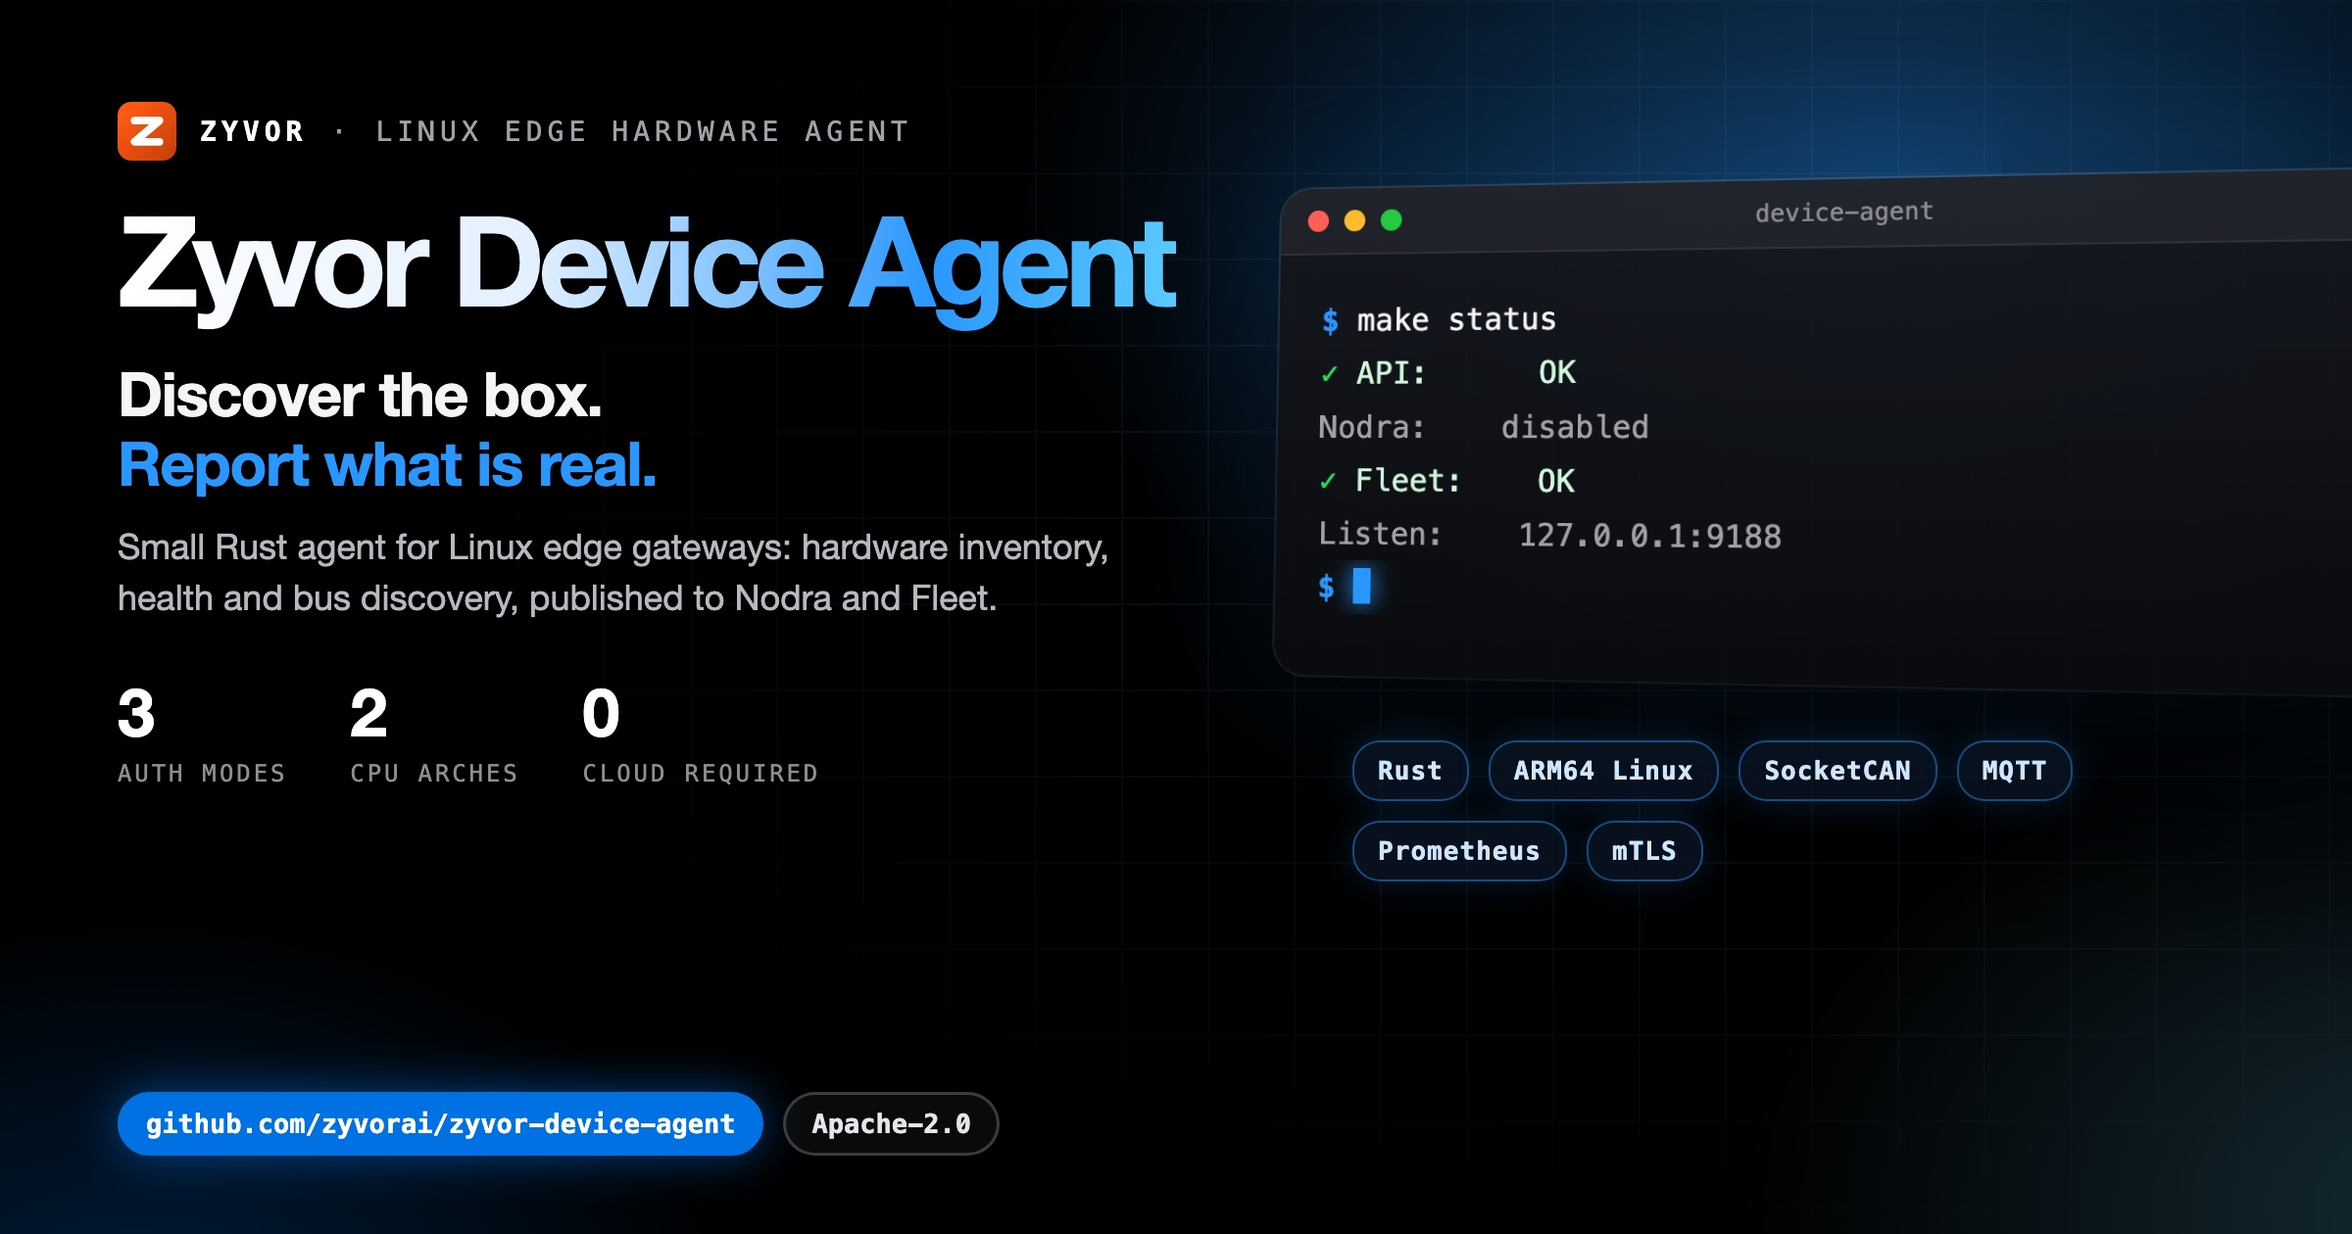
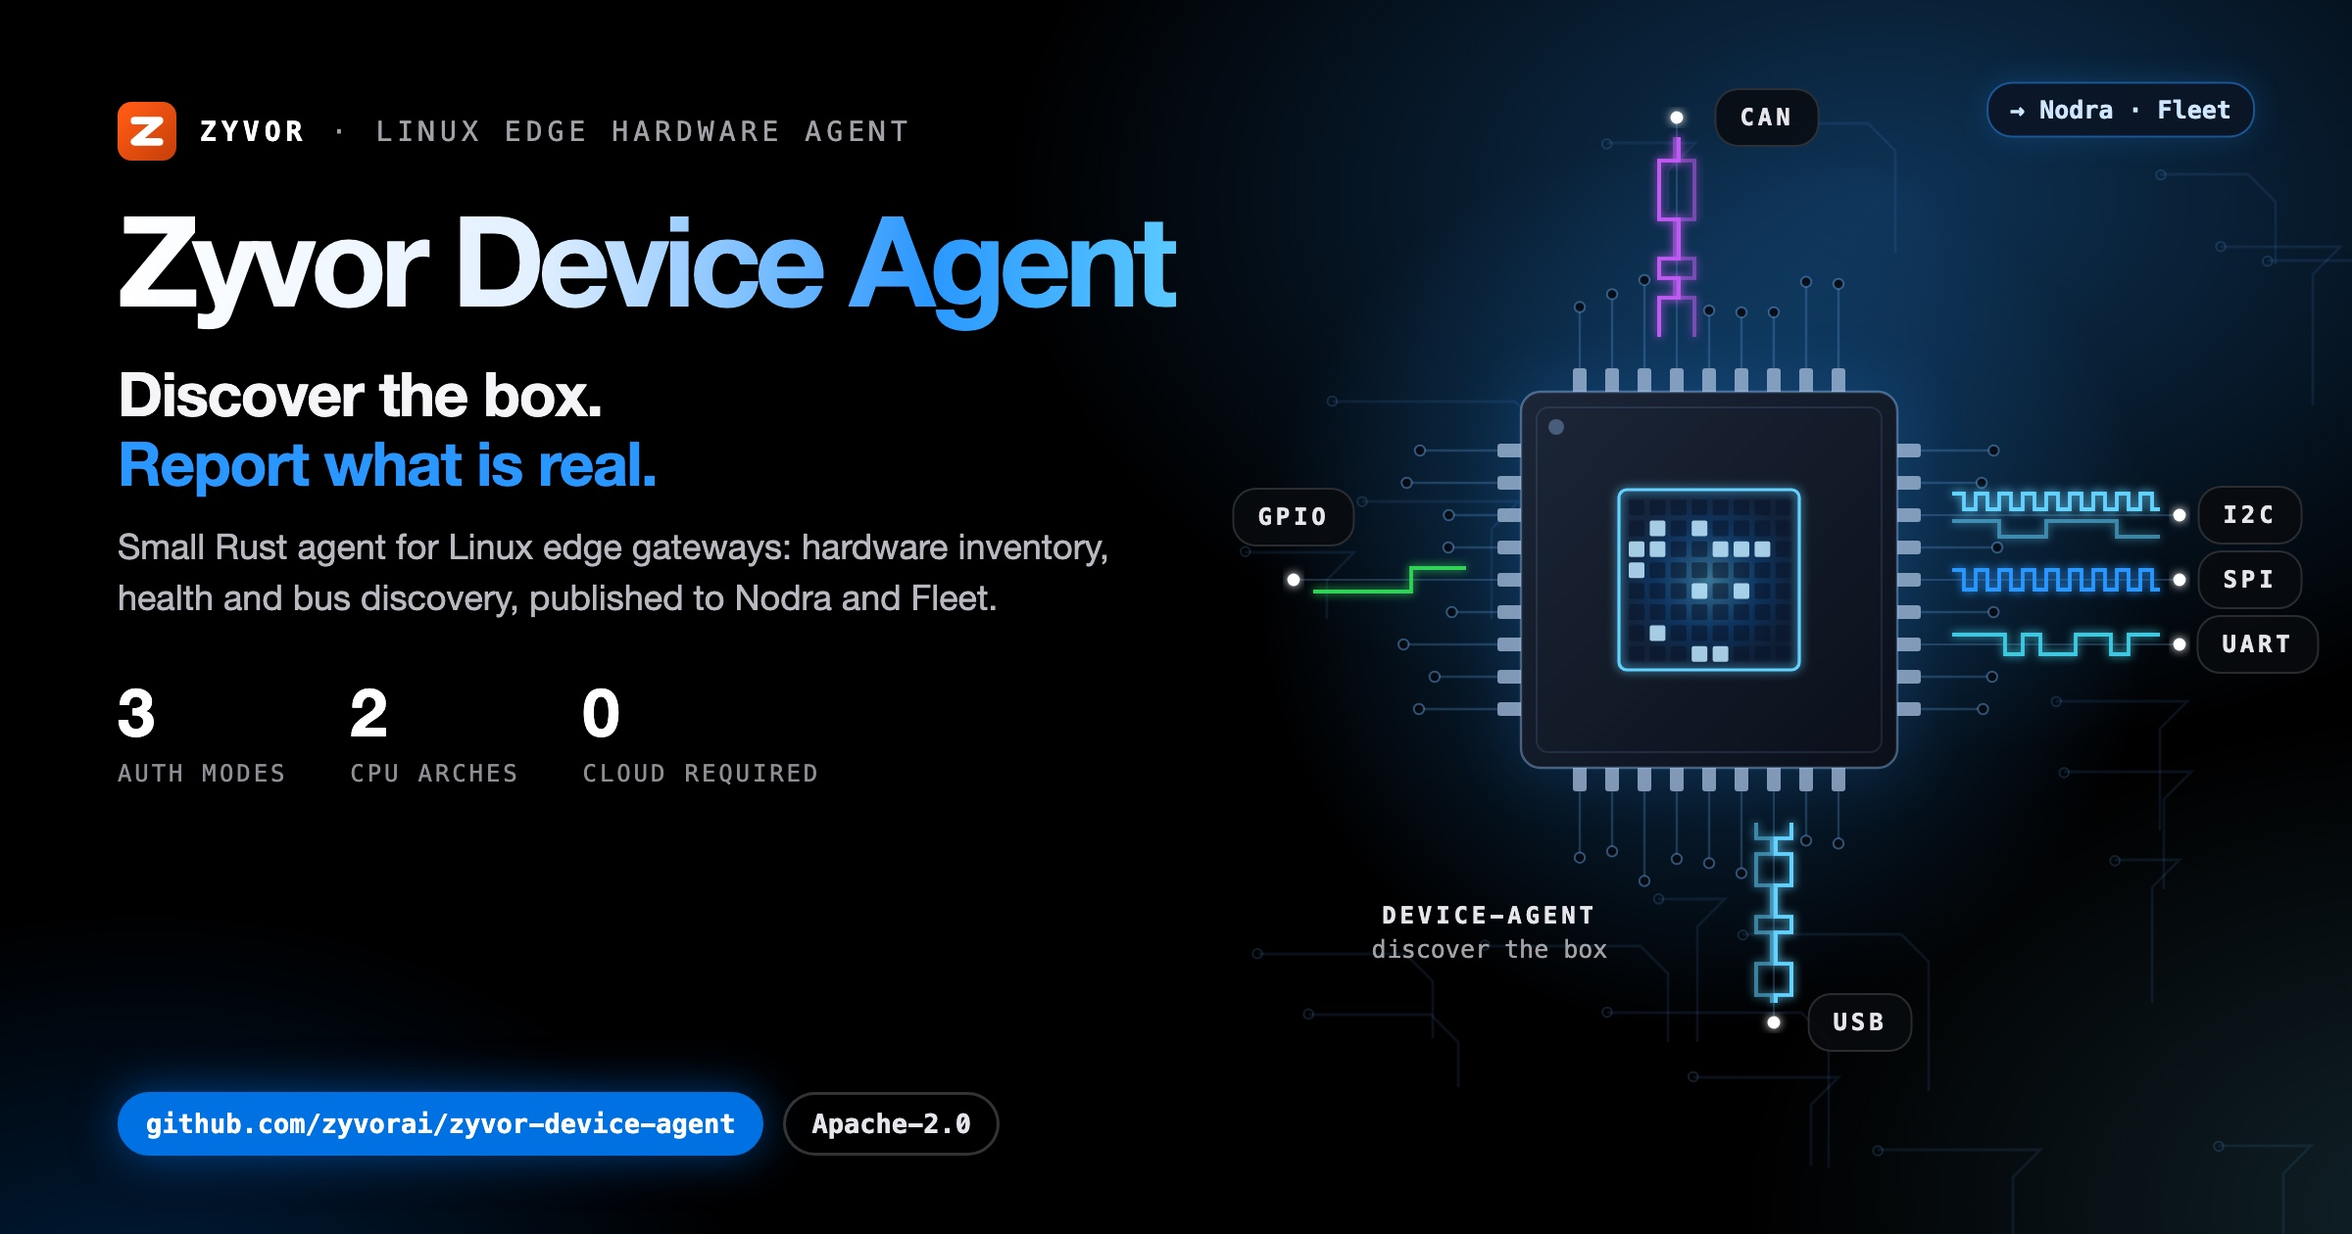
docs(social): unique illustrated hero card
Replace the shared terminal-window art with a motif drawn for this project;
same verified copy and stats on the left.

Changed region(s): [[0.5312, 0.0619, 1.0, 0.8357]]

diff --git a/docs/social/device-agent-hero-dark.html b/docs/social/device-agent-hero-dark.html
@@ -8,58 +8,47 @@
   Build: ./docs/social/build-hero-dark.sh  ->  device-agent-hero-dark.jpg (2400x1260)
 -->
 <style>
-  :root { --blue:#0071e3; --signal:#2997ff; --cyan:#64d2ff; --green:#30d158; --amber:#ff9f0a;
+  :root { --blue:#0071e3; --signal:#2997ff; --cyan:#64d2ff; --green:#30d158; --amber:#ff9f0a; --red:#ff453a; --violet:#bf5af2;
     --sans:'SF Pro Display','Helvetica Neue',Helvetica,Arial,sans-serif; --mono:'SF Mono',Menlo,Consolas,monospace; }
   * { box-sizing:border-box; }
   html,body { margin:0; padding:0; }
   body { width:1200px; height:630px; overflow:hidden; color:#f5f5f7; font-family:var(--sans); position:relative; background:#000; }
   .aurora { position:absolute; inset:0;
-    background:radial-gradient(720px 460px at 80% 16%, rgba(41,151,255,.40), transparent 62%),
-               radial-gradient(600px 420px at 104% 98%, rgba(100,210,255,.20), transparent 60%),
+    background:radial-gradient(720px 460px at 80% 16%, rgba(41,151,255,.34), transparent 62%),
+               radial-gradient(600px 420px at 104% 98%, rgba(100,210,255,.16), transparent 60%),
                radial-gradient(520px 380px at 6% 110%, rgba(0,113,227,.28), transparent 60%); }
-  .grid { position:absolute; inset:0; opacity:.09;
-    background-image:linear-gradient(rgba(120,180,255,.9) 1px,transparent 1px),linear-gradient(90deg,rgba(120,180,255,.9) 1px,transparent 1px);
-    background-size:44px 44px; -webkit-mask-image:radial-gradient(900px 520px at 72% 42%, #000 18%, transparent 75%); }
-  .left { position:absolute; left:60px; top:52px; width:560px; z-index:3; }
+  .copy { position:absolute; left:60px; top:52px; width:560px; z-index:3; }
   .brand { display:flex; align-items:center; gap:12px; font-family:var(--mono); font-size:14px; letter-spacing:.18em; text-transform:uppercase; color:#a1a1a6; }
   .brand b { color:#fff; }
   .word { margin:20px 0 0; font-size:64px; line-height:.95; font-weight:800; letter-spacing:-.05em; white-space:nowrap;
     background:linear-gradient(92deg,#fff 0%,#e3f0ff 38%,var(--signal) 74%,var(--cyan) 100%); -webkit-background-clip:text; background-clip:text; color:transparent; padding-bottom:6px; }
   .tag { margin:14px 0 0; font-size:31px; line-height:1.15; font-weight:700; letter-spacing:-.02em; }
   .tag em { font-style:normal; color:var(--signal); }
-  .lede { margin:12px 0 0; font-size:18px; line-height:1.45; color:#b8b8bf; width:520px; }
+  .lede { margin:12px 0 0; font-size:18px; line-height:1.45; color:#b8b8bf; width:520px; text-shadow:0 1px 12px #000; }
   .stats { margin-top:24px; display:flex; gap:32px; }
   .stat b { display:block; font-size:34px; font-weight:800; letter-spacing:-.03em; color:#fff; }
   .stat span { font-family:var(--mono); font-size:12px; letter-spacing:.12em; text-transform:uppercase; color:#8e8e93; }
   .pill { position:absolute; left:60px; bottom:40px; display:flex; gap:10px; z-index:3; }
-  .pill span { font-family:var(--mono); font-size:13.5px; font-weight:700; padding:7px 13px; border-radius:18px; border:1.5px solid rgba(255,255,255,.2); color:#e5e5ea; background:rgba(255,255,255,.04); }
+  .pill span { font-family:var(--mono); font-size:13.5px; font-weight:700; padding:7px 13px; border-radius:18px; border:1.5px solid rgba(255,255,255,.2); color:#e5e5ea; background:rgba(0,0,0,.6); }
   .pill span.b { background:var(--blue); border-color:var(--blue); color:#fff; box-shadow:0 0 24px rgba(0,113,227,.55); }
-
-  .right { position:absolute; left:652px; top:96px; width:560px; z-index:2; }
-  .win { position:relative; width:560px; border-radius:16px; overflow:hidden; z-index:2;
-    background:linear-gradient(180deg, rgba(22,24,30,.94), rgba(10,11,14,.96));
-    box-shadow:0 50px 100px rgba(0,0,0,.75), 0 0 0 1px rgba(255,255,255,.14), 0 0 90px rgba(41,151,255,.22);
-    transform:perspective(1600px) rotateY(-14deg) rotateX(4deg); transform-origin:left center; }
-  .bar { height:34px; display:flex; align-items:center; gap:8px; padding:0 14px; background:rgba(255,255,255,.05); border-bottom:1px solid rgba(255,255,255,.07); }
-  .bar i { width:11px; height:11px; border-radius:50%; background:#ff5f57; } .bar i:nth-child(2){background:#febc2e} .bar i:nth-child(3){background:#28c840}
-  .bar em { margin-left:auto; margin-right:auto; font-style:normal; font-family:var(--mono); font-size:12px; color:#8e8e93; transform:translateX(-24px); }
-  .term { min-height:214px; padding:20px 22px 24px; font-family:var(--mono); font-size:15.5px; line-height:1.75; }
-  .l { white-space:pre; overflow:hidden; text-overflow:ellipsis; color:#f5f5f7; }
-  .l .p { color:var(--signal); font-weight:700; }
-  .l.out { color:#a1a1a6; }
-  .l.cm { color:#6e6e73; }
-  .l.ok { color:#d1f7dc; } .l.ok span { color:var(--green); font-weight:700; }
-  .l.warn { color:#ffe1b0; } .l.warn span { color:var(--amber); font-weight:700; }
-  .cur { display:inline-block; width:9px; height:18px; background:var(--signal); vertical-align:-3px; box-shadow:0 0 12px var(--signal); }
-  .chips { margin:34px 0 0 38px; width:480px; display:flex; flex-wrap:wrap; gap:10px; position:relative; z-index:3; }
-  .chips span { font-family:var(--mono); font-size:13px; font-weight:700; letter-spacing:.04em; padding:7px 12px; border-radius:14px;
-    color:#cfe6ff; background:rgba(10,20,35,.82); border:1px solid rgba(41,151,255,.45); box-shadow:0 0 18px rgba(41,151,255,.18); }
+  .art { position:absolute; left:520px; top:0; width:680px; height:630px; z-index:2; }
+  .art svg { display:block; }
+  #labels { position:absolute; inset:0; z-index:4; pointer-events:none; }
+  .lbl { position:absolute; font-family:var(--mono); font-size:12.5px; color:#a1a1a6; text-align:center; transform:translate(-50%,-50%); white-space:nowrap; }
+  .lbl b { display:block; font-size:12px; letter-spacing:.16em; text-transform:uppercase; color:#e5e5ea; }
+  .lbl span { display:block; margin-top:3px; }
+  .lbl.box { padding:7px 12px; border-radius:12px; background:rgba(8,10,14,.85); border:1px solid rgba(255,255,255,.14); }
+  .lbl.chip { padding:6px 11px; border-radius:13px; font-size:12.5px; font-weight:700; color:#cfe6ff; background:rgba(10,20,35,.85); border:1px solid rgba(41,151,255,.5); box-shadow:0 0 16px rgba(41,151,255,.2); }
+  .lbl.left { transform:translate(0,-50%); text-align:left; }
+  .lbl.right { transform:translate(-100%,-50%); text-align:right; }
+  .ok { color:var(--green) !important; } .warn { color:var(--amber) !important; } .bad { color:var(--red) !important; } .sig { color:var(--signal) !important; } .cy { color:var(--cyan) !important; } .vi { color:var(--violet) !important; }
 </style>
 </head>
 <body>
 <div class="aurora"></div>
-<div class="grid"></div>
-<div class="left">
+<div class="art"><svg id="art" width="680" height="630" viewBox="0 0 680 630" xmlns="http://www.w3.org/2000/svg"></svg></div>
+<div id="labels"></div>
+<div class="copy">
   <div class="brand"><svg viewBox="0 0 64 64" width="30" height="30" aria-hidden="true"><defs><linearGradient id="zb" x1="8" y1="8" x2="56" y2="56" gradientUnits="userSpaceOnUse"><stop offset="0" stop-color="#ff5a15"/><stop offset="1" stop-color="#cc420a"/></linearGradient></defs><rect width="64" height="64" rx="15" fill="url(#zb)"/><path d="M18.5,20.5 45.5,20.5 18.5,43.5 45.5,43.5" fill="none" stroke="#fff" stroke-width="8.3" stroke-linecap="round" stroke-linejoin="round"/></svg><b>Zyvor</b><span>&middot;</span><span>Linux edge hardware agent</span></div>
   <div class="word">Zyvor Device Agent</div>
   <div class="tag">Discover the box.<br><em>Report what is real.</em></div>
@@ -67,8 +56,122 @@
   <div class="stats"><div class="stat"><b>3</b><span>auth modes</span></div><div class="stat"><b>2</b><span>CPU arches</span></div><div class="stat"><b>0</b><span>cloud required</span></div></div>
 </div>
 <div class="pill"><span class="b">github.com/zyvorai/zyvor-device-agent</span><span>Apache-2.0</span></div>
-<div class="right"><div class="win"><div class="bar"><i></i><i></i><i></i><em>device-agent</em></div>
-<div class="term"><div class="l"><span class="p">$</span> make status</div><div class="l ok"><span>&#10003;</span> API:      OK</div><div class="l out">Nodra:    disabled</div><div class="l ok"><span>&#10003;</span> Fleet:    OK</div><div class="l out">Listen:    127.0.0.1:9188</div><div class="l"><span class="p">$</span> <i class="cur"></i></div></div></div>
-<div class="chips"><span>Rust</span><span>ARM64 Linux</span><span>SocketCAN</span><span>MQTT</span><span>Prometheus</span><span>mTLS</span></div></div>
+<script>
+var Z = (function () {
+  var NS = 'http://www.w3.org/2000/svg', svg = document.getElementById('art'), labels = document.getElementById('labels');
+  var seed = 20261004;
+  function rnd() { seed = (seed * 1103515245 + 12345) % 2147483648; return seed / 2147483648; }
+  function el(tag, a, parent) { var n = document.createElementNS(NS, tag); for (var k in a) n.setAttribute(k, a[k]); (parent || svg).appendChild(n); return n; }
+  function g(attrs) { return el('g', attrs || {}); }
+  function label(x, y, inner, cls, style) { var d = document.createElement('div'); d.className = 'lbl ' + (cls || ''); d.style.left = (520 + x) + 'px'; d.style.top = y + 'px'; if (style) d.setAttribute('style', d.getAttribute('style') + ';' + style); d.innerHTML = inner; labels.appendChild(d); return d; }
+  return { NS: NS, svg: svg, W: 680, H: 630, rnd: rnd, el: el, g: g, label: label,
+    reseed: function (s) { seed = s; },
+    c: { blue: '#0071e3', signal: '#2997ff', cyan: '#64d2ff', green: '#30d158', amber: '#ff9f0a', red: '#ff453a', violet: '#bf5af2', teal: '#40c8e0', indigo: '#5e5ce6', pink: '#ff375f', white: '#f5f5f7', grey: '#8e8e93' } };
+})();
+(function () {
+// Zyvor Device Agent: SoC package pinout. Bus traces leave the pins as live square waves
+// (I2C, SPI, UART, CAN, USB, GPIO), each drawn with its own signalling shape.
+var C = Z.c, cx = 352, cy = 296, H = 80;
+var d = Z.el('defs', {});
+d.innerHTML = '<filter id="dagl" x="-30%" y="-80%" width="160%" height="260%"><feGaussianBlur stdDeviation="2.4" result="b"/><feMerge><feMergeNode in="b"/><feMergeNode in="SourceGraphic"/></feMerge></filter>' +
+  '<filter id="dasf" x="-80%" y="-80%" width="260%" height="260%"><feGaussianBlur stdDeviation="16"/></filter>' +
+  '<linearGradient id="dapkg" x1="0" y1="0" x2="1" y2="1"><stop offset="0" stop-color="#1c2638"/><stop offset="1" stop-color="#0a0f19"/></linearGradient>' +
+  '<radialGradient id="dadie"><stop offset="0" stop-color="#64d2ff" stop-opacity=".9"/><stop offset=".6" stop-color="#0071e3" stop-opacity=".5"/><stop offset="1" stop-color="#0071e3" stop-opacity=".15"/></radialGradient>' +
+  '<radialGradient id="dahalo"><stop offset="0" stop-color="#2997ff" stop-opacity=".35"/><stop offset="1" stop-color="#2997ff" stop-opacity="0"/></radialGradient>';
+
+Z.el('circle', { cx: cx, cy: cy, r: 230, fill: 'url(#dahalo)' });
+// faint PCB traces texture
+for (var k = 0; k < 26; k++) {
+  var x = 110 + Z.rnd() * 540, y = 40 + Z.rnd() * 550, L1 = 30 + Z.rnd() * 70, L2 = 20 + Z.rnd() * 50, s = Z.rnd() < .5 ? 1 : -1;
+  if (Math.abs(x - cx) < 140 && Math.abs(y - cy) < 140) continue;
+  Z.el('path', { d: 'M' + x.toFixed(0) + ',' + y.toFixed(0) + ' h' + L1.toFixed(0) + ' l' + (s * 14) + ',' + 14 + ' v' + L2.toFixed(0), fill: 'none', stroke: 'rgba(100,170,255,.10)', 'stroke-width': 1.4 });
+  Z.el('circle', { cx: x, cy: y, r: 2.4, fill: 'none', stroke: 'rgba(100,170,255,.18)' });
+}
+
+// square-wave along a local x axis; returns path d
+function waveD(len, bits, amp, bw, off) {
+  var lvl = bits.charAt(0) === '1', dd = 'M0,' + (lvl ? -amp : amp) + off;
+  var x = 0, out = 'M0,' + ((lvl ? -amp : amp) + off);
+  for (var i = 0; i * bw < len; i++) {
+    var b = bits.charAt(i % bits.length) === '1';
+    if (b !== lvl) { out += ' V' + ((b ? -amp : amp) + off); lvl = b; }
+    x = Math.min(len, (i + 1) * bw); out += ' H' + x;
+  }
+  return out;
+}
+function bus(x0, y0, deg, len, kind, col) {
+  var g = Z.g({ transform: 'translate(' + x0 + ',' + y0 + ') rotate(' + deg + ')' });
+  Z.el('line', { x1: 0, y1: 0, x2: len, y2: 0, stroke: 'rgba(120,185,255,.22)', 'stroke-width': 1 }, g);
+  var start = 16, wl = len - start - 10, w = Z.g({ transform: 'translate(' + start + ',0)' });
+  g.appendChild(w);
+  var lines = [];
+  if (kind === 'i2c') { lines = [['10101010101010101010', 4, 6, -7], ['11001110001101100011', 4, 12, 7]]; }
+  if (kind === 'spi') { lines = [['10101010101010101010', 5, 6, 0]]; }
+  if (kind === 'uart') { lines = [['1110100110111011010011', 5, 9, 0]]; }
+  if (kind === 'can') { lines = [['1101001110010110', 5, 10, -4], ['0010110001101001', 5, 10, 4]]; }
+  if (kind === 'usb') { lines = [['10110010011010110', 4, 8, -5], ['01001101100101001', 4, 8, 5]]; }
+  if (kind === 'gpio') { lines = [['0011111000', 6, 14, 0]]; }
+  lines.forEach(function (ln, n) {
+    Z.el('path', { d: waveD(wl, ln[0], ln[1], ln[2], ln[3]), fill: 'none', stroke: col, 'stroke-width': 1.9, opacity: n ? .6 : 1, 'stroke-linejoin': 'miter', filter: 'url(#dagl)' }, w);
+  });
+  Z.el('circle', { cx: len, cy: 0, r: 3.2, fill: '#fff', filter: 'url(#dagl)' }, g);
+}
+
+// package
+var PK = H + 16, NP = 9, pitch = (2 * H - 28) / (NP - 1);
+Z.el('rect', { x: cx - PK - 6, y: cy - PK - 6, width: 2 * PK + 12, height: 2 * PK + 12, rx: 14, fill: C.signal, opacity: .12, filter: 'url(#dasf)' });
+// pins
+var pins = { t: [], b: [], l: [], r: [] };
+for (var i = 0; i < NP; i++) {
+  var o = -H + 14 + i * pitch;
+  pins.t.push([cx + o, cy - PK]); pins.b.push([cx + o, cy + PK]); pins.l.push([cx - PK, cy + o]); pins.r.push([cx + PK, cy + o]);
+  Z.el('rect', { x: cx + o - 3.5, y: cy - PK - 12, width: 7, height: 14, rx: 1.5, fill: '#9fb6d4', opacity: .8 });
+  Z.el('rect', { x: cx + o - 3.5, y: cy + PK - 2, width: 7, height: 14, rx: 1.5, fill: '#9fb6d4', opacity: .8 });
+  Z.el('rect', { x: cx - PK - 12, y: cy + o - 3.5, width: 14, height: 7, rx: 1.5, fill: '#9fb6d4', opacity: .8 });
+  Z.el('rect', { x: cx + PK - 2, y: cy + o - 3.5, width: 14, height: 7, rx: 1.5, fill: '#9fb6d4', opacity: .8 });
+}
+Z.el('rect', { x: cx - PK, y: cy - PK, width: 2 * PK, height: 2 * PK, rx: 10, fill: 'url(#dapkg)', stroke: 'rgba(160,200,255,.4)', 'stroke-width': 1.2 });
+Z.el('rect', { x: cx - PK + 8, y: cy - PK + 8, width: 2 * PK - 16, height: 2 * PK - 16, rx: 6, fill: 'none', stroke: 'rgba(160,200,255,.12)' });
+Z.el('circle', { cx: cx - PK + 18, cy: cy - PK + 18, r: 4, fill: 'rgba(160,200,255,.35)' });
+// die
+var DH = 46;
+Z.el('rect', { x: cx - DH, y: cy - DH, width: 2 * DH, height: 2 * DH, rx: 4, fill: 'url(#dadie)', opacity: .55 });
+for (var gx = 0; gx < 8; gx++) for (var gy = 0; gy < 8; gy++) {
+  var lit = Z.rnd() < .22;
+  Z.el('rect', { x: cx - DH + 5 + gx * 10.7, y: cy - DH + 5 + gy * 10.7, width: 8, height: 8, rx: 1, fill: lit ? '#bfe9ff' : 'rgba(10,20,40,.55)', opacity: lit ? .85 : 1 });
+}
+Z.el('rect', { x: cx - DH, y: cy - DH, width: 2 * DH, height: 2 * DH, rx: 4, fill: 'none', stroke: C.cyan, 'stroke-width': 1.6, filter: 'url(#dagl)' });
+
+// stub traces with vias on unused pins
+var used = { r: [2, 4, 6], t: [3], b: [6], l: [4] }, dirs = { t: [0, -1], b: [0, 1], l: [-1, 0], r: [1, 0] };
+['t', 'b', 'l', 'r'].forEach(function (sd) {
+  pins[sd].forEach(function (p, i) {
+    if (used[sd].indexOf(i) >= 0) return;
+    var dv = dirs[sd], L = 22 + Z.rnd() * 26, x0 = p[0] + dv[0] * 12, y0 = p[1] + dv[1] * 12;
+    Z.el('path', { d: 'M' + x0.toFixed(1) + ',' + y0.toFixed(1) + ' l' + (dv[0] * L).toFixed(1) + ',' + (dv[1] * L).toFixed(1), stroke: 'rgba(120,185,255,.22)', 'stroke-width': 1.2 });
+    Z.el('circle', { cx: x0 + dv[0] * L, cy: y0 + dv[1] * L, r: 2.6, fill: 'rgba(6,10,18,.9)', stroke: 'rgba(120,185,255,.4)' });
+  });
+});
+// buses
+var E = 12, RL = 132;
+bus(pins.r[2][0] + E, pins.r[2][1], 0, RL, 'i2c', C.cyan);
+bus(pins.r[4][0] + E, pins.r[4][1], 0, RL, 'spi', C.signal);
+bus(pins.r[6][0] + E, pins.r[6][1], 0, RL, 'uart', C.teal);
+bus(pins.t[3][0], pins.t[3][1] - E, -90, 128, 'can', C.violet);
+bus(pins.b[6][0], pins.b[6][1] + E, 90, 118, 'usb', C.cyan);
+bus(pins.l[4][0] - E, pins.l[4][1], 180, 104, 'gpio', C.green);
+
+function tag(x, y, name) { Z.label(x, y, '<b>' + name + '</b>', 'box'); }
+var RX = pins.r[0][0] + E + RL;
+tag(RX + 36, pins.r[2][1], 'I2C');
+tag(RX + 36, pins.r[4][1], 'SPI');
+tag(RX + 40, pins.r[6][1], 'UART');
+tag(pins.t[3][0] + 46, pins.t[3][1] - E - 128, 'CAN');
+tag(pins.b[6][0] + 44, pins.b[6][1] + E + 118, 'USB');
+tag(pins.l[4][0] - E - 104, pins.l[4][1] - 32, 'GPIO');
+Z.label(cx - 112, cy + PK + 84, '<b>device-agent</b><span>discover the box</span>');
+Z.label(cx + 210, 56, '&rarr; Nodra &middot; Fleet', 'chip');
+})();
+</script>
 </body>
 </html>
